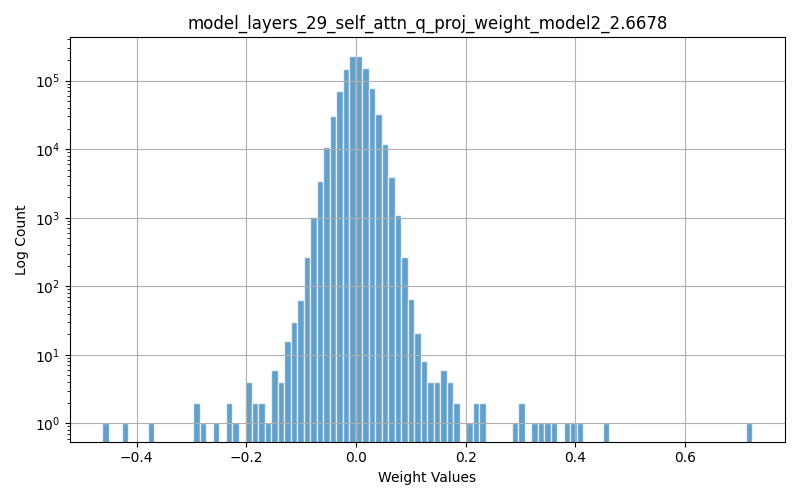
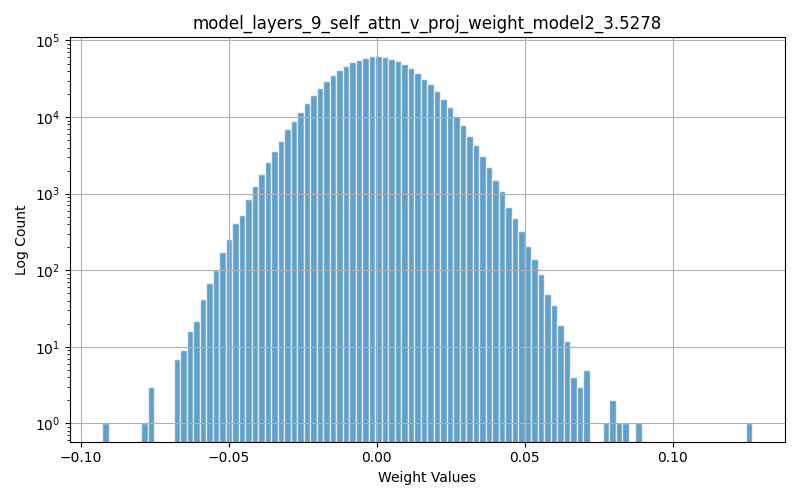
added image comparison

diff --git a/visualizations/weight_analysis.py b/visualizations/weight_analysis.py
@@ -7,11 +7,12 @@ from safetensors.torch import load_file as load_safetensors
 from huggingface_hub import snapshot_download
 from scipy.stats import entropy
 from weight_distribution import plot_histogram, plot_overlaid_histograms
+import csv
 
 def compute_entropy(weights):
     flat = weights.detach().cpu().to(torch.float32).numpy().flatten()
     hist, bin_edges = np.histogram(flat, bins=256, density=True)
-    return entropy(hist + 1e-8)  # add small constant to avoid log(0)
+    return entropy(hist + 1e-8)
 
 def compute_frobenius_norm(w1, w2, device):
     return torch.norm(w1.to(device).to(torch.float32) - w2.to(device).to(torch.float32), p='fro').item()
@@ -36,27 +37,24 @@ def load_model_weights(model_dir):
             state_dict.update(torch.load(path, map_location="cpu"))
     return state_dict
 
-IMPORTANT_LAYERS = ["q_proj", "k_proj", "v_proj", "fc1", "fc2", "o_proj"]
+IMPORTANT_LAYERS = ["q_proj", "k_proj", "v_proj", "o_proj", "up_proj", "down_proj"]
 
-import csv
-
-def analyze_weights(model1_dict, model2_dict=None, layers=None, device="cpu"):
-    """
-    Compares weights from two models and returns a list of per-layer metrics.
-    """
+def analyze_weights(model1_dict, model2_dict=None, layers=None, device="cpu", last_n=None):
     selected_layers = layers if layers else IMPORTANT_LAYERS
     results = []
 
-    for name, w1 in model1_dict.items():
-        # Skip layers we don't want
-        if not any(layer in name for layer in selected_layers):
-            continue
+    matching_keys = [name for name in model1_dict.keys() if any(layer in name for layer in selected_layers)]
+    matching_keys.sort()
 
+    if last_n is not None and last_n > 0:
+        matching_keys = matching_keys[-last_n:]
+
+    for name in matching_keys:
+        w1 = model1_dict[name]
         safe_name = name.replace(".", "_").replace("/", "_")
-        print(f"\n🔍 Analyzing: {name}")
+        print(f"\nAnalyzing: {name}")
         print(f" - Shape: {tuple(w1.shape)}")
 
-        # Compute metrics for model1
         H1 = compute_entropy(w1)
         print(f" - Entropy (model1): {H1:.4f}")
 
@@ -64,45 +62,38 @@ def analyze_weights(model1_dict, model2_dict=None, layers=None, device="cpu"):
         if s1 is not None:
             print(f" - Top singular values (model1): {s1[:5]}")
 
-        # Prepare histogram samples from model1
         w1_sample = w1.detach().to(torch.float32).cpu().flatten()
         if w1_sample.numel() > 1_000_000:
             idx = torch.randperm(w1_sample.numel())[:1_000_000]
             w1_sample = w1_sample[idx]
-        # Save histogram for model1
         plot_histogram(w1_sample.numpy(), f"{safe_name}_model1_{H1:.4f}", "histograms")
 
-        # Defaults for model2 metrics if not found
         H2, s2, norm_diff = None, None, None
 
-        # If compare_id model exists and has this layer
         if model2_dict and name in model2_dict:
             w2 = model2_dict[name]
             H2 = compute_entropy(w2)
             print(f" - Entropy (model2): {H2:.4f}")
-            print(f" - Δ Entropy: {(H1 - H2):.4f}")
+            print(f" - Delta Entropy: {(H1 - H2):.4f}")
 
             s2 = compute_svd_spectrum(w2, device)
             if s2 is not None:
                 delta_s = s1[:5] - s2[:5]
                 print(f" - Top singular values (model2): {s2[:5]}")
-                print(f" - Δ SVD: {delta_s}")
+                print(f" - Delta SVD: {delta_s}")
 
             norm_diff = compute_frobenius_norm(w1, w2, device)
             print(f" - Frobenius norm difference: {norm_diff:.4f}")
 
-            # Prepare histogram samples for model2
             w2_sample = w2.detach().to(torch.float32).cpu().flatten()
             if w2_sample.numel() > 1_000_000:
                 idx = torch.randperm(w2_sample.numel())[:1_000_000]
                 w2_sample = w2_sample[idx]
-            # Save histogram for model2
+
             plot_histogram(w2_sample.numpy(), f"{safe_name}_model2_{H2:.4f}", "histograms")
-            # Overlay histograms for side-by-side comparison
             plot_overlaid_histograms(w1_sample.numpy(), w2_sample.numpy(),
                                      f"{safe_name}_overlay_{H1:.4f}_{H2:.4f}", "histograms")
 
-        # Append row to results
         results.append({
             'layer': name,
             'entropy_model1': round(H1, 4),
@@ -122,26 +113,24 @@ def main():
     parser.add_argument('--compare_id', type=str, default=None)
     parser.add_argument('--layers', nargs='*', default=None)
     parser.add_argument('--device', type=str, default="cuda" if torch.cuda.is_available() else "cpu")
+    parser.add_argument('--last_n', type=int, default=None, help="Only analyze the last N matching layers")
     args = parser.parse_args()
 
-    print(f"⬇ Downloading model: {args.model_id}")
+    print(f"Downloading model: {args.model_id}")
     model1_dir = snapshot_download(args.model_id)
     model1_dict = load_model_weights(model1_dir)
 
     model2_dict = None
     if args.compare_id:
-        print(f"⬇ Downloading comparison model: {args.compare_id}")
+        print(f"Downloading comparison model: {args.compare_id}")
         model2_dir = snapshot_download(args.compare_id)
         model2_dict = load_model_weights(model2_dir)
 
-    print(f"🚀 Using device: {args.device}")
-
-    # Ensure output dir exists
+    print(f"Using device: {args.device}")
     os.makedirs("histograms", exist_ok=True)
     csv_path = os.path.join("histograms", "layerwise_analysis.csv")
 
-    # Run analysis, write CSV
-    results = analyze_weights(model1_dict, model2_dict, args.layers, args.device)
+    results = analyze_weights(model1_dict, model2_dict, args.layers, args.device, args.last_n)
     with open(csv_path, "w", newline="") as csvfile:
         fieldnames = [
             "layer",
@@ -158,7 +147,7 @@ def main():
         for row in results:
             writer.writerow(row)
 
-    print(f"📄 Saved CSV summary to {csv_path}")
+    print(f"Saved CSV summary to {csv_path}")
 
 if __name__ == '__main__':
     main()

diff --git a/visualizations/stitch_image.py b/visualizations/stitch_image.py
@@ -1,0 +1,55 @@
+import os
+from PIL import Image
+import math
+import argparse
+
+def stitch_images(image_dir, output_path="stitched.png", cols=4, padding=10, resize_width=None):
+    # Get all .png files, sorted by filename
+    image_files = sorted([f for f in os.listdir(image_dir) if f.endswith(".png")])
+    if not image_files:
+        print("No PNG images found in the directory.")
+        return
+
+    images = []
+    for f in image_files:
+        img = Image.open(os.path.join(image_dir, f))
+        if resize_width:
+            w_percent = resize_width / float(img.size[0])
+            h_size = int(float(img.size[1]) * w_percent)
+            img = img.resize((resize_width, h_size), Image.ANTIALIAS)
+        images.append(img)
+
+    # Grid dimensions
+    n = len(images)
+    rows = math.ceil(n / cols)
+    max_width = max(img.width for img in images)
+    max_height = max(img.height for img in images)
+
+    stitched = Image.new("RGB", (
+        cols * max_width + padding * (cols - 1),
+        rows * max_height + padding * (rows - 1)
+    ), color=(255, 255, 255))  # white background
+
+    # Paste images into grid
+    for idx, img in enumerate(images):
+        x = (idx % cols) * (max_width + padding)
+        y = (idx // cols) * (max_height + padding)
+        stitched.paste(img, (x, y))
+
+    stitched.save(output_path)
+    print(f"Stitched image saved to: {output_path}")
+
+if __name__ == "__main__":
+    parser = argparse.ArgumentParser()
+    parser.add_argument("--image_dir", type=str, required=True, help="Directory containing .png files")
+    parser.add_argument("--output", type=str, default="stitched.png", help="Output image filename")
+    parser.add_argument("--cols", type=int, default=4, help="Number of columns in the grid")
+    parser.add_argument("--resize_width", type=int, default=None, help="Optional width to resize each image")
+    args = parser.parse_args()
+
+    stitch_images(
+        image_dir=args.image_dir,
+        output_path=args.output,
+        cols=args.cols,
+        resize_width=args.resize_width
+    )
